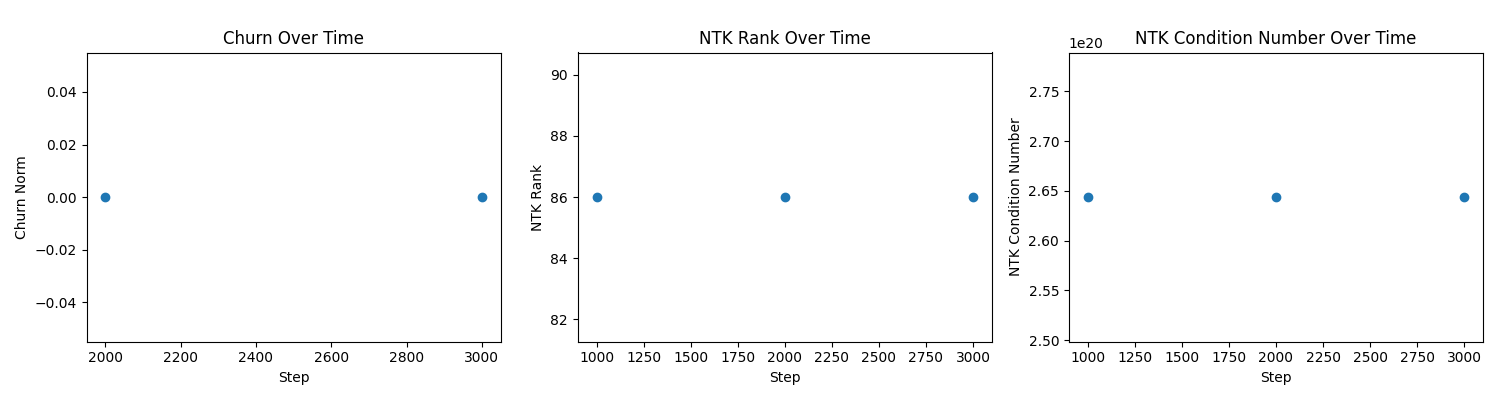
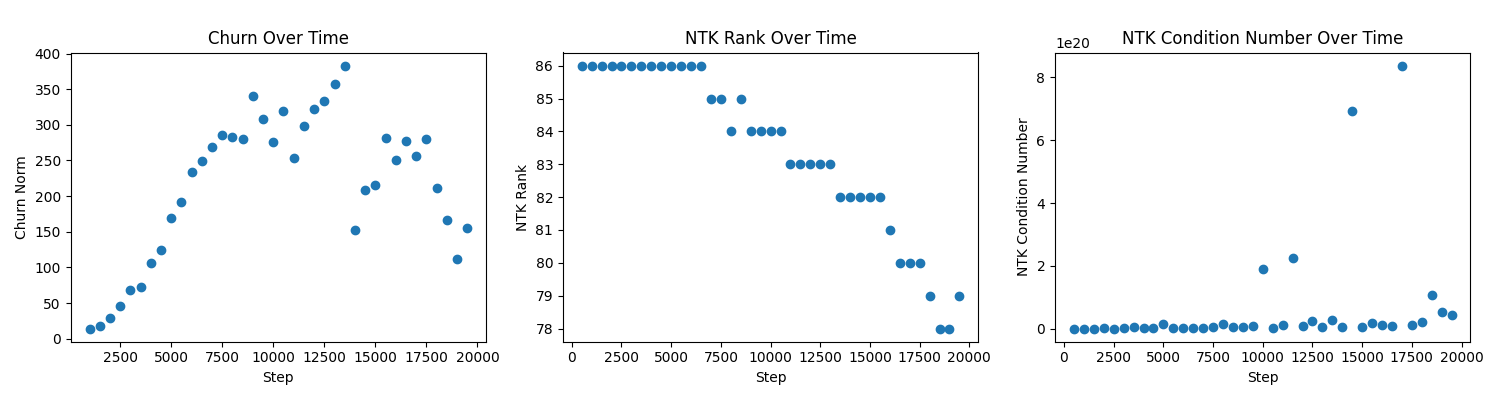
finished ntk and churn metrics and plotting on jax with cpu

diff --git a/src/continuing_main.py b/src/continuing_main.py
@@ -452,9 +452,8 @@ if freeze_steps is None:
     freeze_steps = np.inf
 freeze_steps = float(freeze_steps)
 
-# Storage for tracking churn predictions and agent states at metric steps
+# Storage for tracking churn predictions
 pred_before_churn = {}  # Maps agent_idx -> predictions before update
-agent_states_at_steps = {}  # Maps (agent_idx, step) -> agent_state at that step
 
 
 def compute_and_store_ntk_metrics(agent_idx, step_idx, glue_state, x_ref, pred_before_churn):
@@ -479,8 +478,12 @@ def compute_and_store_ntk_metrics(agent_idx, step_idx, glue_state, x_ref, pred_b
             x_ref_batch = x_ref
 
         # Create dummy scalars (zeros) for reference data
-        num_scalar_features = 4  # last_action, reward, reward_trace, hint_trace
-        scalars_batch = jnp.zeros((n_samples, num_scalar_features))
+        # Get actual scalars size from agent's last_timestep
+        if hasattr(glue.agent.state, 'last_timestep') and 'scalars' in glue.agent.state.last_timestep:
+            scalars_size = glue.agent.state.last_timestep['scalars'].shape[-1]
+        else:
+            scalars_size = 4  # fallback default
+        scalars_batch = jnp.zeros((n_samples, scalars_size))
 
         # Compute current predictions for churn
         pred_current = glue.agent._values(glue.agent.state, x_ref_batch, scalars_batch)
@@ -490,11 +493,8 @@ def compute_and_store_ntk_metrics(agent_idx, step_idx, glue_state, x_ref, pred_b
         # Compute churn if we have previous predictions
         if agent_idx in pred_before_churn:
             pred_prev = pred_before_churn[agent_idx]
-            pred_diff = np.asarray(pred_current) - np.asarray(pred_prev)
-            churn_norm = np.linalg.norm(pred_diff)
+            churn_norm = np.linalg.norm(np.asarray(pred_current) - np.asarray(pred_prev))
             datas["churn_norm"][agent_idx, step_idx] = np.float16(churn_norm)
-            logger.debug(f"Churn computation: prev_shape={pred_prev.shape}, curr_shape={np.asarray(pred_current).shape}, "
-                        f"diff_range=[{pred_diff.min():.6e}, {pred_diff.max():.6e}], norm={churn_norm:.6e}")
 
         # Store current predictions for next churn computation
         pred_before_churn[agent_idx] = np.asarray(pred_current)
@@ -503,6 +503,7 @@ def compute_and_store_ntk_metrics(agent_idx, step_idx, glue_state, x_ref, pred_b
         rank, cond = compute_ntk_metrics(glue.agent, x_ref_batch, scalars_batch)
         datas["ntk_rank"][agent_idx, step_idx] = np.float16(rank)
         datas["ntk_cond"][agent_idx, step_idx] = np.float32(cond)
+        logger.debug(f"Computed NTK metrics at step {step_idx}: rank={rank}, cond={cond:.2e}")
 
     except Exception as e:
         logger.error(f"Failed to compute NTK metrics at step {step_idx} for agent {agent_idx}: {e}", exc_info=True)
@@ -586,7 +587,9 @@ if use_explicit_update_steps:
 while current_step < n:
     next_save = ((current_step // save_every) + 1) * save_every
     next_video = ((current_step // video_every) + 1) * video_every
-    next_milestone = min(next_save, next_video, n)
+    # Add ntk_freq as a milestone so metrics are computed with exact per-step states
+    next_ntk = ((current_step // ntk_freq) + 1) * ntk_freq if ntk_freq > 0 else n + 1
+    next_milestone = min(next_save, next_video, next_ntk, n)
     steps_in_iter = next_milestone - current_step
 
     if steps_in_iter <= 0:
@@ -745,14 +748,11 @@ while current_step < n:
         else:
             glue_state_idx = glue_states
 
-        # Compute metrics at regular intervals
-        # IMPORTANT: All metrics in this loop use glue_state_idx from the END of the chunk.
-        # This means metrics for step 1000 use the state at current_step + steps_in_iter,
-        # not the state at step 1000. For accurate per-step metrics, compute during scan.
-        for metric_step in range(current_step, current_step + steps_in_iter):
-            if ntk_freq > 0 and metric_step > 0 and metric_step % ntk_freq == 0 and metric_step < n:
-                logger.info(f"Computing NTK metrics at step {metric_step}")
-                compute_and_store_ntk_metrics(i, metric_step, glue_state_idx, x_ref, pred_before_churn)
+        # Compute metrics at ntk_freq boundaries
+        # Because next_milestone is now aligned to ntk_freq, glue_state_idx is the correct state at this step
+        if ntk_freq > 0 and next_milestone % ntk_freq == 0 and next_milestone > 0 and next_milestone < n:
+            logger.info(f"Computing NTK metrics at step {next_milestone}")
+            compute_and_store_ntk_metrics(i, next_milestone, glue_state_idx, x_ref, pred_before_churn)
 
         if next_milestone % save_every == 0 and next_milestone < n:
             checkpoint_start_time = time.time()